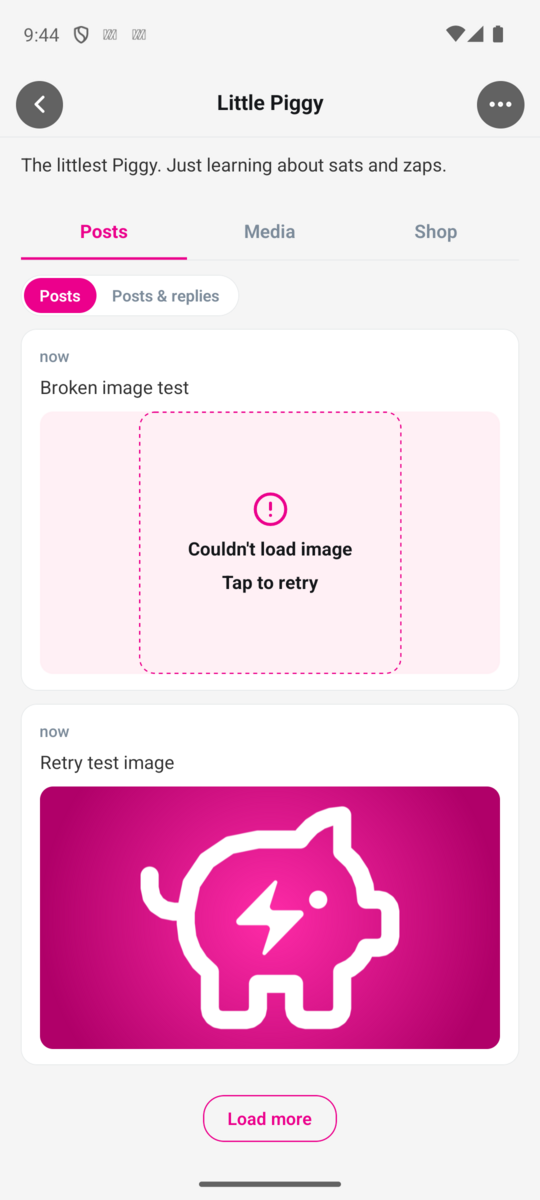
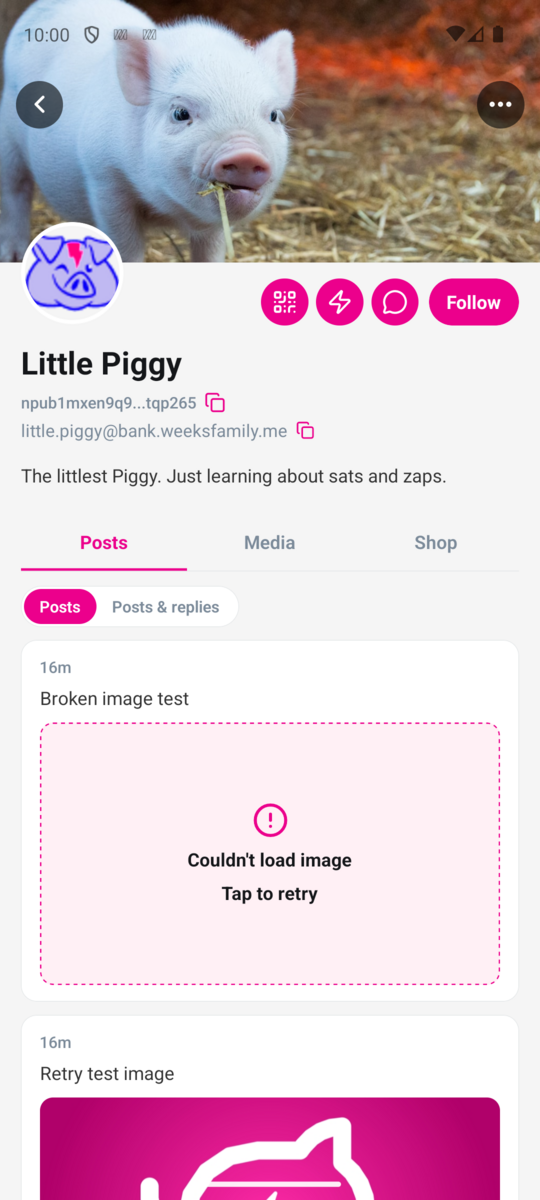
fix(media): failed / loading box fills the post image tile (#1691)
MediaStatusBox's image box is square (aspectRatio 1), so in a wide post
tile it left pink gaps either side of the dashed edge. Override it to fill
the tile with the tile's own corners.

diff --git a/src/components/nostr/NostrContent.tsx b/src/components/nostr/NostrContent.tsx
@@ -209,7 +209,7 @@ const MediaThumb: React.FC<{
       {loading ? (
         <MediaStatusBox
           status="loading"
-          style={styles.thumbImage}
+          style={styles.thumbStatus}
           testID={`nostr-inline-image-loading-${index}`}
         />
       ) : null}
@@ -217,7 +217,7 @@ const MediaThumb: React.FC<{
         <MediaStatusBox
           status="failed"
           label={t('messageBubble.imageLoadFailed')}
-          style={styles.thumbImage}
+          style={styles.thumbStatus}
           testID={`nostr-inline-image-failed-${index}`}
         />
       ) : null}

diff --git a/src/styles/NostrContent.styles.ts b/src/styles/NostrContent.styles.ts
@@ -62,6 +62,14 @@ export const createNostrContentStyles = (colors: Palette) =>
       width: '100%',
       height: '100%',
     },
+    // Loading / failed box (MediaStatusBox): fill the whole thumb edge to
+    // edge, not the box's default square, with the thumb's own corners.
+    thumbStatus: {
+      width: '100%',
+      height: '100%',
+      aspectRatio: undefined,
+      borderRadius: 10,
+    },
     playBadge: {
       position: 'absolute',
       width: 36,
